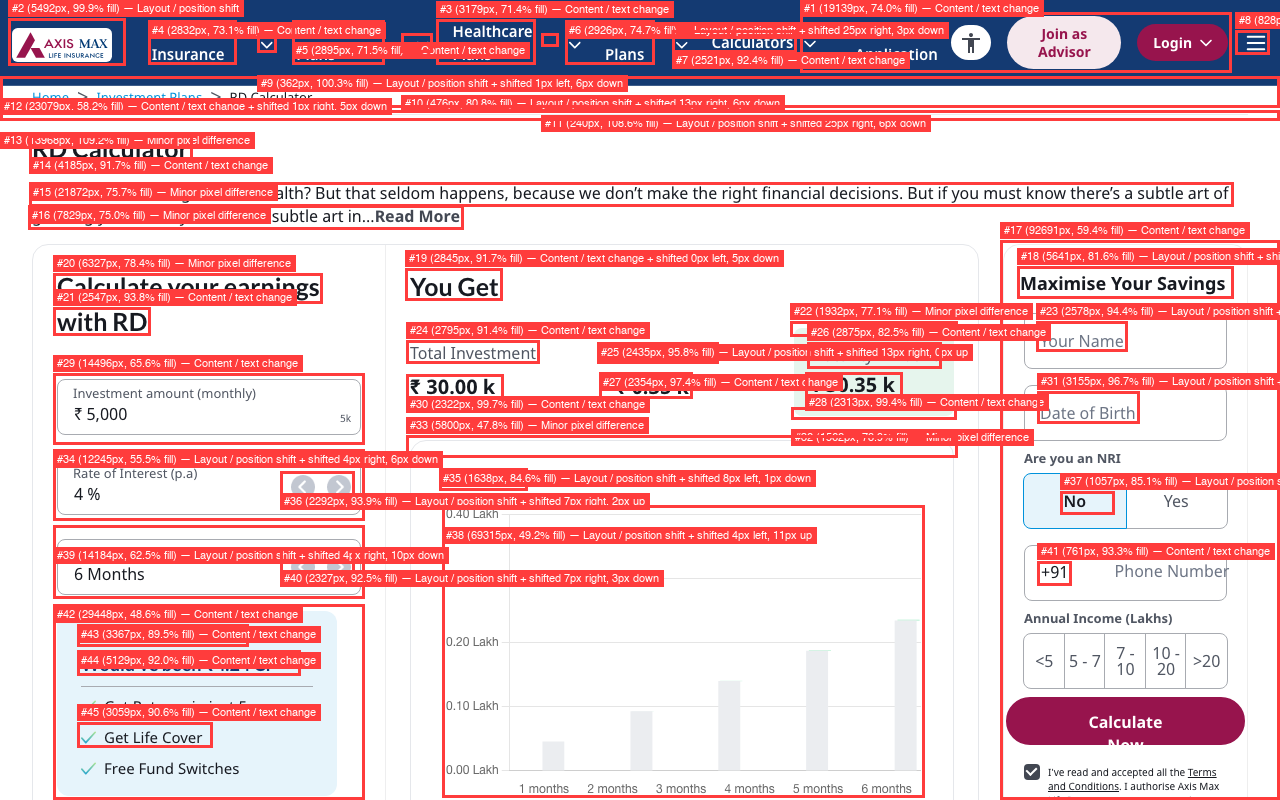
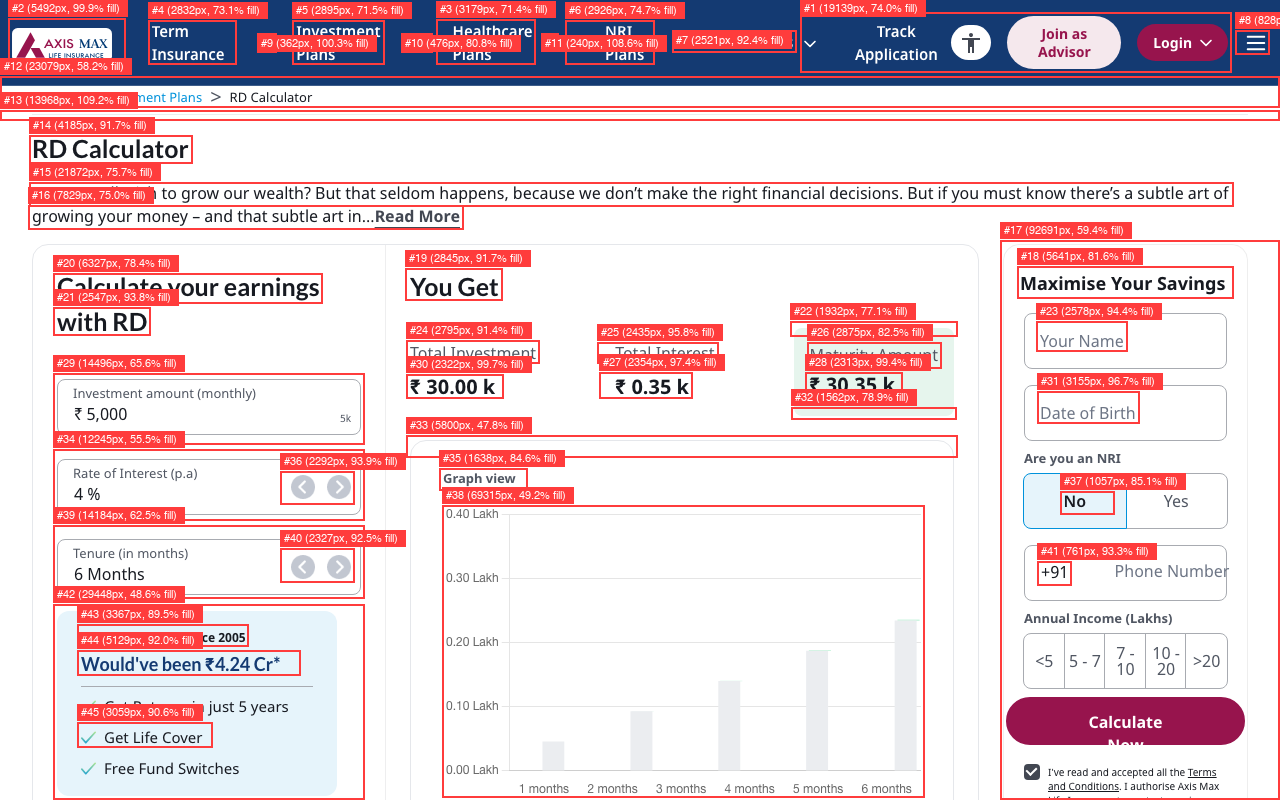
removed classification logic

diff --git a/compare.py b/compare.py
@@ -27,56 +27,56 @@ print(f"Detected {num_features} changed region(s)")
 
 
 # --- Classification logic (priority-based, no overlap) ---
-def classify_region(ref_crop, live_crop, region_w, region_h, shift=None):
-    ref_arr = np.array(ref_crop).astype(np.float32)
-    live_arr = np.array(live_crop).astype(np.float32)
-    diff = np.abs(ref_arr - live_arr)
+# def classify_region(ref_crop, live_crop, region_w, region_h, shift=None):
+#     ref_arr = np.array(ref_crop).astype(np.float32)
+#     live_arr = np.array(live_crop).astype(np.float32)
+#     diff = np.abs(ref_arr - live_arr)
 
-    avg_diff = diff.mean()
-    changed_ratio = (np.any(diff > 10, axis=2).sum()) / (region_w * region_h)
-    ref_mean = ref_arr.mean(axis=(0, 1))
-    live_mean = live_arr.mean(axis=(0, 1))
-    color_shift = np.abs(ref_mean - live_mean).mean()
-    diff_std = diff.std()
-    ref_brightness = ref_arr.mean()
-    live_brightness = live_arr.mean()
-    brightness_diff = abs(ref_brightness - live_brightness)
+#     avg_diff = diff.mean()
+#     changed_ratio = (np.any(diff > 10, axis=2).sum()) / (region_w * region_h)
+#     ref_mean = ref_arr.mean(axis=(0, 1))
+#     live_mean = live_arr.mean(axis=(0, 1))
+#     color_shift = np.abs(ref_mean - live_mean).mean()
+#     diff_std = diff.std()
+#     ref_brightness = ref_arr.mean()
+#     live_brightness = live_arr.mean()
+#     brightness_diff = abs(ref_brightness - live_brightness)
 
-    # --- Priority 1: confirmed layout shift from detect_shift ---
-    # If shift detection already confirmed a positional match with low error,
-    # trust it and return immediately — avoids conflicting labels.
-    if shift is not None:
-        sx, sy = shift
-        if abs(sx) > 5 or abs(sy) > 5:
-            return "Layout / position shift"
+#     # --- Priority 1: confirmed layout shift from detect_shift ---
+#     # If shift detection already confirmed a positional match with low error,
+#     # trust it and return immediately — avoids conflicting labels.
+#     if shift is not None:
+#         sx, sy = shift
+#         if abs(sx) > 5 or abs(sy) > 5:
+#             return "Layout / position shift"
 
-    # --- Priority 2: brightness jump = theme or visibility change ---
-    if brightness_diff > 40:
-        return "Brightness / theme change"
+#     # --- Priority 2: brightness jump = theme or visibility change ---
+#     if brightness_diff > 40:
+#         return "Brightness / theme change"
 
-    # --- Priority 3: whole region changed color uniformly ---
-    if changed_ratio > 0.85 and color_shift > 30:
-        return "Color change"
+#     # --- Priority 3: whole region changed color uniformly ---
+#     if changed_ratio > 0.85 and color_shift > 30:
+#         return "Color change"
 
-    # --- Priority 4: majority changed + moderate color shift = style ---
-    if changed_ratio > 0.6 and color_shift > 15:
-        return "Background or style change"
+#     # --- Priority 4: majority changed + moderate color shift = style ---
+#     if changed_ratio > 0.6 and color_shift > 15:
+#         return "Background or style change"
 
-    # --- Priority 5: text/content — uneven diff, smaller area changed ---
-    # Checked before the generic layout-shift rule so that small high-variance
-    # regions (e.g. a changed word) aren't mislabeled as layout shifts.
-    if diff_std > 30 and changed_ratio < 0.5:
-        return "Content / text change"
+#     # --- Priority 5: text/content — uneven diff, smaller area changed ---
+#     # Checked before the generic layout-shift rule so that small high-variance
+#     # regions (e.g. a changed word) aren't mislabeled as layout shifts.
+#     if diff_std > 30 and changed_ratio < 0.5:
+#         return "Content / text change"
 
-    # --- Priority 6: layout shift — uneven diff, significant area ---
-    if diff_std > 20 and changed_ratio > 0.4:
-        return "Layout / position shift"
+#     # --- Priority 6: layout shift — uneven diff, significant area ---
+#     if diff_std > 20 and changed_ratio > 0.4:
+#         return "Layout / position shift"
 
-    # --- Priority 7: very subtle ---
-    if avg_diff < 20 and changed_ratio < 0.3:
-        return "Minor pixel difference"
+#     # --- Priority 7: very subtle ---
+#     if avg_diff < 20 and changed_ratio < 0.3:
+#         return "Minor pixel difference"
 
-    return "Visual difference"
+#     return "Visual difference"
 
 
 # --- Shift detection via FFT-based cross-correlation ---
@@ -181,7 +181,7 @@ for i in range(1, num_features + 1):
     live_crop = live.crop((x_min, y_min, x_max, y_max))
 
     shift = detect_shift(ref, live, x_min, y_min, x_max, y_max, padding=40)
-    description = classify_region(ref_crop, live_crop, region_w, region_h, shift=shift)
+    # description = classify_region(ref_crop, live_crop, region_w, region_h, shift=shift)
 
     if shift:
         sx, sy = shift
@@ -189,16 +189,16 @@ for i in range(1, num_features + 1):
             f"shifted {abs(sx)}px {'right' if sx > 0 else 'left'}, "
             f"{abs(sy)}px {'down' if sy > 0 else 'up'}"
         )
-        description = f"{description} + {shift_str}"
+        # description = f"{description} + {shift_str}"
 
     label = (
         f"#{change_count} "
         f"({region_pixels}px, {bbox_coverage:.1f}% fill) "
-        f"— {description}"
+        # f"— {description}"
     )
 
     # Draw bounding box
-    draw.rectangle([x_min, y_min, x_max, y_max], outline=BOX_COLOR, width=3)
+    draw.rectangle([x_min, y_min, x_max, y_max], outline=BOX_COLOR, width=2)
 
     # Place label above the box, shifting down if it overlaps a previous label
     bbox_text = draw.textbbox((0, 0), label, font=font)
@@ -222,7 +222,7 @@ for i in range(1, num_features + 1):
     )
     draw.text((label_x + 4, label_y + 3), label, fill=LABEL_TEXT, font=font)
 
-    print(f"  Change #{change_count} at ({x_min},{y_min}) → ({x_max},{y_max}): {description}")
+   # print(f"  Change #{change_count} at ({x_min},{y_min}) → ({x_max},{y_max}): {description}")
 
 annotated.save("diffs/annotated.png")
 print(f"\nAnnotated diff saved to diffs/annotated.png ({change_count} changes marked)")